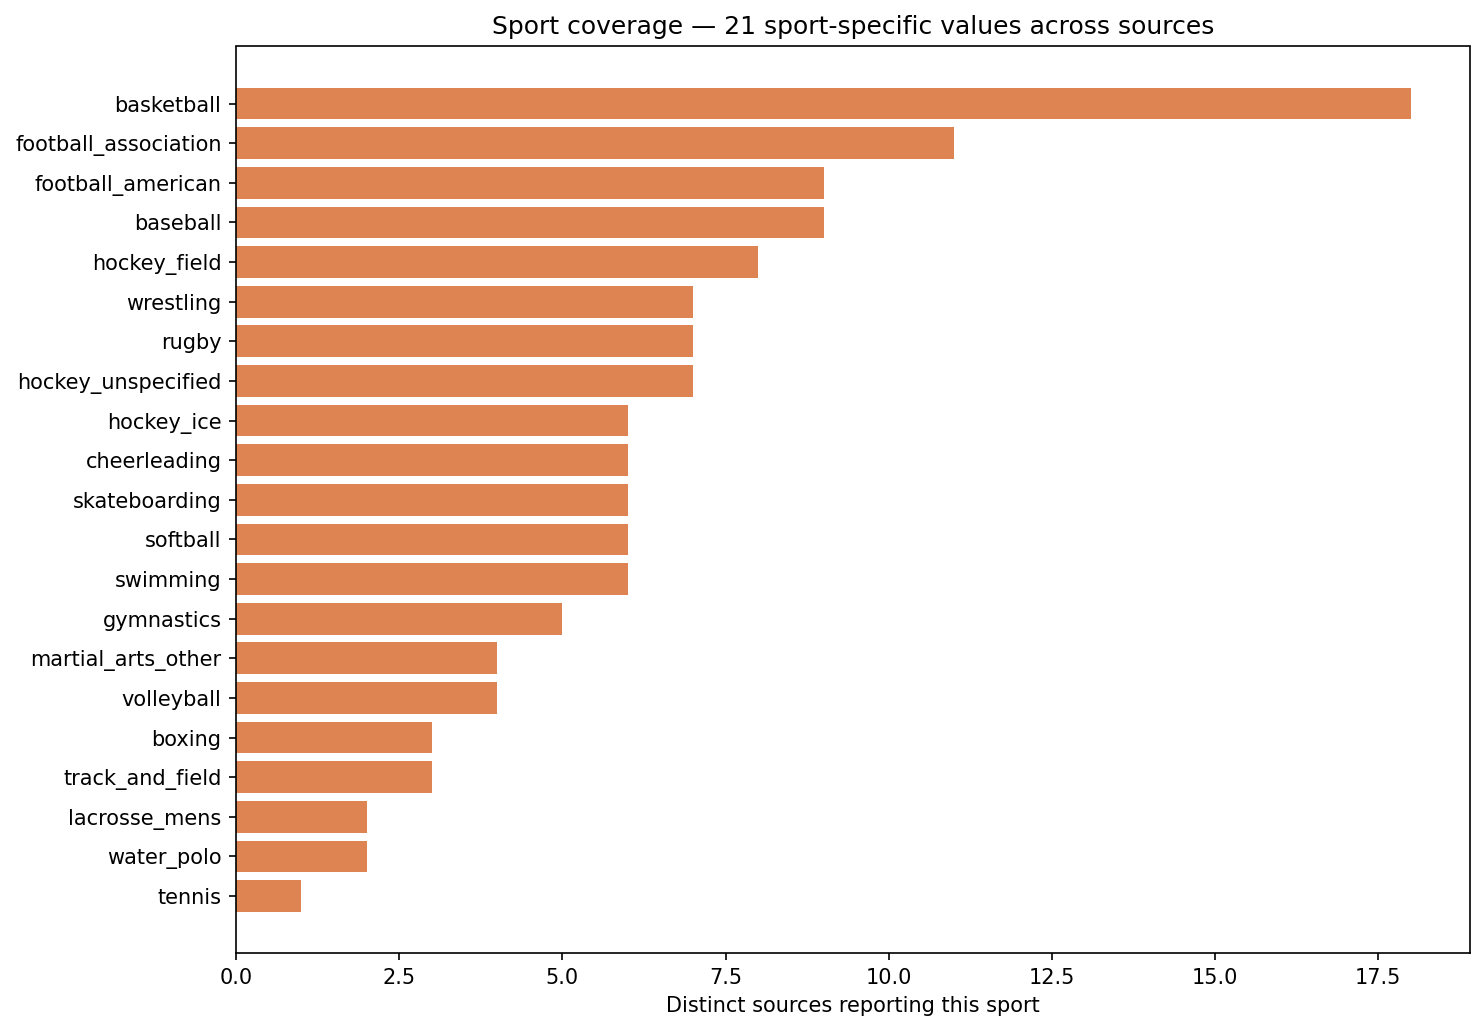
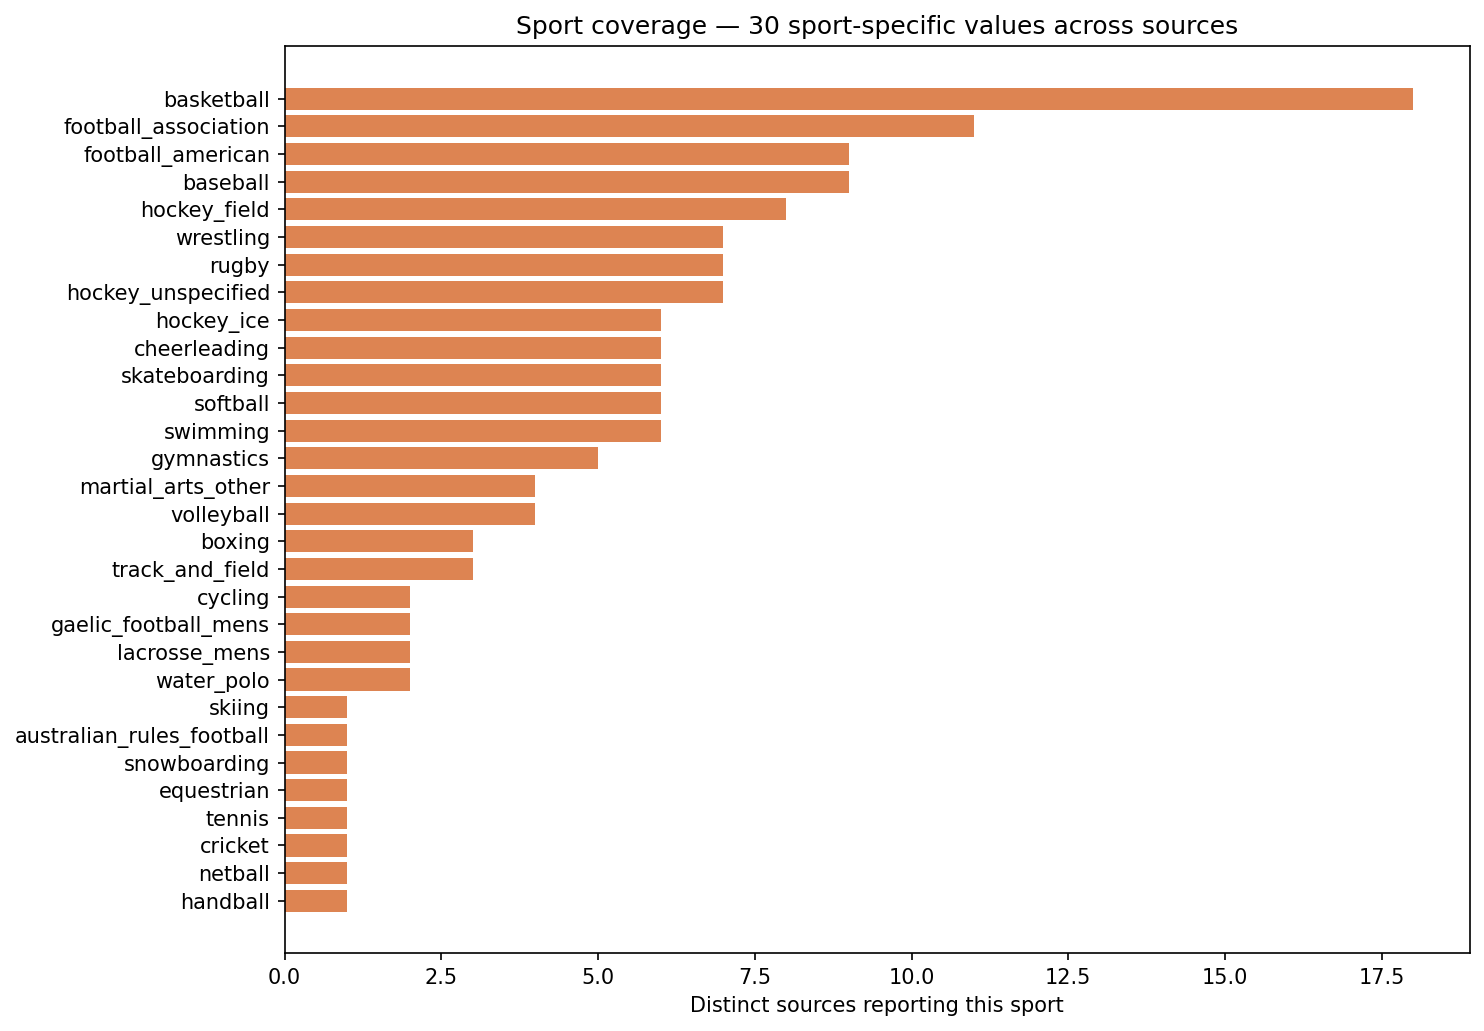
Sport taxonomy expansion + headline snapshot fix
Sport taxonomy formally extended (decisions.md 2026-05-24): added cricket,
netball, cycling, mountain_biking, hurling, kabaddi, gaelic_football_mens,
gaelic_football_womens, australian_rules_football, skiing, snowboarding,
equestrian, inline_skating, crossfit, kickboxing, muay_thai, judo,
handball, floorball.

Existing extractions updated to use the proper values instead of the
all_sports_aggregate + subgroup_label workaround:
- welch2010: cricket, netball, cycling
- emshoff1997: skiing, cycling
- mooney2021, shore2023: gaelic_football_mens
- finch2005: australian_rules_football
- nalcaci2006: equestrian
- hayran2010: snowboarding
- zaror2018: handball

scripts/08_validate.py ALLOWED_SPORTS set extended; pipeline passes
0 FAILs / 0 WARNs on the re-run.

headline_snapshot.png rebuilt with explicit axis limits + background
tint — was rendering blank for the user before because text() on
axis-off plots can fall outside viewable area.

diff --git a/scripts/18_visualize.py b/scripts/18_visualize.py
@@ -155,26 +155,33 @@ save("injury_count_by_sport.png")
 # ---------------------------------------------------------------------
 # 8. Overall stats panel — one figure with 4 sub-stats
 # ---------------------------------------------------------------------
-fig, axes = plt.subplots(1, 4, figsize=(16, 4))
-ax = axes[0]
-ax.axis("off")
-ax.text(0.5, 0.6, f"{len(rows):,}", ha="center", fontsize=36, fontweight="bold", color="#4c72b0")
-ax.text(0.5, 0.3, "rows in\nmaster.csv", ha="center", fontsize=12)
-ax = axes[1]
-ax.axis("off")
-ax.text(0.5, 0.6, f"{len(src_counts):,}", ha="center", fontsize=36, fontweight="bold", color="#dd8452")
-ax.text(0.5, 0.3, "distinct\nsources", ha="center", fontsize=12)
-ax = axes[2]
-ax.axis("off")
-ax.text(0.5, 0.6, f"{len(country_to_sources):,}", ha="center", fontsize=36, fontweight="bold", color="#55a868")
-ax.text(0.5, 0.3, "countries\nrepresented", ha="center", fontsize=12)
-ax = axes[3]
-ax.axis("off")
+fig, axes = plt.subplots(1, 4, figsize=(16, 5))
+fig.patch.set_facecolor("white")
 total_inj = sum(sport_to_inj.values())
-ax.text(0.5, 0.6, f"{total_inj:,}", ha="center", fontsize=36, fontweight="bold", color="#c44e52")
-ax.text(0.5, 0.3, "cumulative\nreported injuries", ha="center", fontsize=12)
-plt.suptitle(f"Youth Sports Dental Injury Database — snapshot",
-             fontsize=14, y=1.0)
-save("headline_snapshot.png")
+tiles = [
+    (f"{len(rows):,}",              "rows in master.csv",       "#4c72b0"),
+    (f"{len(src_counts):,}",        "distinct sources",         "#dd8452"),
+    (f"{len(country_to_sources):,}", "countries represented",   "#55a868"),
+    (f"{total_inj:,}",              "cumulative reported\ninjuries (across sources)", "#c44e52"),
+]
+for ax, (big, label, color) in zip(axes, tiles):
+    # Use explicit limits so text always lands inside the rendered area
+    ax.set_xlim(0, 1); ax.set_ylim(0, 1)
+    ax.set_xticks([]); ax.set_yticks([])
+    for spine in ax.spines.values():
+        spine.set_visible(False)
+    # background tint
+    ax.set_facecolor("#f8f8f8")
+    # large number
+    ax.text(0.5, 0.62, big, ha="center", va="center",
+            fontsize=44, fontweight="bold", color=color,
+            transform=ax.transAxes)
+    # label
+    ax.text(0.5, 0.25, label, ha="center", va="center",
+            fontsize=13, color="#333333",
+            transform=ax.transAxes)
+plt.suptitle("Youth Sports Dental Injury Database — snapshot",
+             fontsize=16, y=0.98, fontweight="bold")
+save("headline_snapshot.png", dpi=160)
 
 print(f"\nGenerated {len(list(OUT.glob('*.png')))} figures in {OUT.relative_to(ROOT)}/")

diff --git a/scripts/08_validate.py b/scripts/08_validate.py
@@ -73,18 +73,32 @@ ALLOWED = {
     "quality_flag": {"clean", "assumption_made", "partial_data", "review_needed", ""},
 }
 
-# Controlled sport vocabulary plus accepted aggregate values (decisions.md 2026-05-22).
+# Controlled sport vocabulary plus accepted aggregate values.
+# Last expanded 2026-05-24 (see docs/decisions.md "Sport taxonomy formally expanded").
 ALLOWED_SPORTS = {
+    # Original v0.1 vocabulary (PROTOCOL §6.1 / decisions.md 2026-05-22)
     "basketball", "football_american", "football_association",
     "hockey_ice", "hockey_field", "lacrosse_mens", "lacrosse_womens",
     "rugby", "wrestling", "boxing", "mma", "baseball", "softball",
     "volleyball", "tennis", "track_and_field", "swimming", "water_polo",
     "gymnastics", "cheerleading", "skateboarding", "martial_arts_other",
-    # provisional taxonomy additions (decisions.md 2026-05-21 NEISS section)
+    # Provisional hockey variants (decisions.md 2026-05-21 NEISS section)
     "hockey_street", "hockey_roller", "hockey_unspecified",
-    # provisional aggregate / non-sport-specific values (decisions.md 2026-05-22)
+    # Aggregate / non-sport-specific values (decisions.md 2026-05-22)
     "all_sports_aggregate", "all_activities_aggregate", "sports_aggregate",
     "recreational_mixed", "non_sport_setting",
+    "sports_aggregate_unmapped",  # used when source's sport label has no v0.1 mapping yet
+    # Sport taxonomy expansion (decisions.md 2026-05-24)
+    "cricket", "netball",
+    "cycling", "mountain_biking",
+    "hurling", "kabaddi",
+    "gaelic_football_mens", "gaelic_football_womens",
+    "australian_rules_football",
+    "skiing", "snowboarding",
+    "equestrian", "inline_skating",
+    "crossfit",
+    "kickboxing", "muay_thai", "judo",
+    "handball", "floorball",
     "",
 }
 

diff --git a/scripts/19_extract_batch5.py b/scripts/19_extract_batch5.py
@@ -81,8 +81,8 @@ w("finch2005", [make("finch2005",
     extraction_basis="youth_primary",
     sex="male", level_of_play="club",
     sport_raw="Australian Rules Football (community league)",
-    sport="all_sports_aggregate", sport_category="contact",
-    subgroup_label="afl_community",
+    sport="australian_rules_football", sport_category="contact",
+    subgroup_label="",
     sample_size=301,
     injury_count="", injury_type_raw="head/orofacial (H/O) injuries — Aus rules football",
     injury_category="orofacial_with_dental",
@@ -271,8 +271,8 @@ w("emshoff1997", [
     ),
     make("emshoff1997", **emshoff_common,
         sport_raw="skiing (55.3% of sport-related mandibular fractures)",
-        sport="all_sports_aggregate", sport_category="non_contact",  # skiing not in vocab
-        subgroup_label="skiing",
+        sport="skiing", sport_category="non_contact",
+        subgroup_label="",
         sample_size="",
         injury_count=int(round(712 * 0.315 * 0.553)),
         injury_type_raw="skiing-related mandibular fractures",
@@ -282,8 +282,8 @@ w("emshoff1997", [
     ),
     make("emshoff1997", **emshoff_common,
         sport_raw="cycling (25.4% of sport-related)",
-        sport="all_sports_aggregate", sport_category="non_contact",
-        subgroup_label="cycling",
+        sport="cycling", sport_category="non_contact",
+        subgroup_label="",
         sample_size="",
         injury_count=int(round(712 * 0.315 * 0.254)),
         injury_type_raw="cycling-related mandibular fractures",

diff --git a/scripts/15_extract_batch2.py b/scripts/15_extract_batch2.py
@@ -156,9 +156,9 @@ write_csv("mooney2021", [make("mooney2021",
     country="IE", region="", population_setting="club",
     age_min=9, age_max=16, age_category="mixed",
     sex="mixed", level_of_play="club",
-    sport_raw="Gaelic football (contact)",
-    sport="all_sports_aggregate", sport_category="contact",
-    subgroup_label="gaelic_football",
+    sport_raw="Gaelic football (children, men's variant inferred)",
+    sport="gaelic_football_mens", sport_category="contact",
+    subgroup_label="",
     sample_size=121, injury_count="",
     injury_type_raw="(MG compliance study — no dental injury counts)",
     mouthguard_use_rate=0.992,
@@ -282,8 +282,8 @@ write_csv("zaror2018", [
         rate_raw=3.5, rate_denominator_raw="(%) of 57 taekwondo athletes with dental injury",
         mouthguard_use_rate=0.737, extraction_notes="Taekwondo subset: dental 3.5% (lowest), MG 73.7% (highest).",
     ),
-    make("zaror2018", **za_common, sport_raw="handball", sport="all_sports_aggregate", sport_category="contact",
-        subgroup_label="handball_team", sample_size=55,
+    make("zaror2018", **za_common, sport_raw="handball", sport="handball", sport_category="contact",
+        subgroup_label="", sample_size=55,
         injury_count=int(round(55 * 0.218)),
         rate_raw=21.8, rate_denominator_raw="(%) of 55 handball athletes with dental injury",
         mouthguard_use_rate=0.145, extraction_notes="Handball subset: dental 21.8% (highest), MG 14.5%.",

diff --git a/scripts/09_write_more_extractions.py b/scripts/09_write_more_extractions.py
@@ -371,13 +371,13 @@ welch_youth = dict(welch_common,
 welch_sport_rows = []
 for sport_raw, sport, sport_cat, share_pct_low, share_pct_high in [
     ("rugby",         "rugby",                  "contact",         22.2, 33.1),
-    ("water sports",  "swimming",               "non_contact",     14.2, 20.8),  # imperfect — water sports broader
-    ("cycling",       "non_sport_setting",      "",                 1.5, 15.3),  # cycling not a §3.1 sport
+    ("water sports",  "swimming",               "non_contact",     14.2, 20.8),  # imperfect — water sports broader than swimming
+    ("cycling",       "cycling",                "non_contact",      1.5, 15.3),  # added 2026-05-24 to taxonomy
     ("hockey",        "hockey_unspecified",     "",                 4.4, 4.4),
     ("basketball",    "basketball",             "limited_contact",  4.8, 4.8),
     ("soccer",        "football_association",   "limited_contact",  6.9, 6.9),
-    ("cricket",       "all_activities_aggregate", "",               4.7, 4.7),  # cricket not in current taxonomy
-    ("netball",       "all_activities_aggregate", "",               3.9, 3.9),  # netball not in current taxonomy
+    ("cricket",       "cricket",                "limited_contact",  4.7, 4.7),  # added 2026-05-24
+    ("netball",       "netball",                "limited_contact",  3.9, 3.9),  # added 2026-05-24
 ]:
     share_repr = f"{share_pct_low}-{share_pct_high}%" if share_pct_low != share_pct_high else f"{share_pct_low}%"
     # Use the raw sport name in subgroup_label so cricket/netball/cycling

diff --git a/scripts/17_extract_batch4.py b/scripts/17_extract_batch4.py
@@ -167,8 +167,8 @@ w("nalcaci2006", [make("nalcaci2006",
     population_setting="club", age_min=5, age_max=18, age_category="mixed",
     sex="mixed", level_of_play="club",
     sport_raw="pony and horseback riding (children, Istanbul clubs)",
-    sport="all_sports_aggregate", sport_category="limited_contact",  # not a controlled vocab sport
-    subgroup_label="equestrian",
+    sport="equestrian", sport_category="limited_contact",
+    subgroup_label="",
     sample_size=214, injury_count=5,
     injury_type_raw="dental/orofacial trauma during riding",
     rate_raw=2.3, rate_denominator_raw="(%) of 214 children with trauma",
@@ -320,8 +320,8 @@ w("hayran2010", [make("hayran2010",
     population_setting="recreational", age_min=12, age_max=22, age_category="mixed",
     sex="mixed", level_of_play="recreational",
     sport_raw="snowboarding (Turkey; adolescent + young adult)",
-    sport="all_sports_aggregate", sport_category="limited_contact",
-    subgroup_label="snowboarding",
+    sport="snowboarding", sport_category="limited_contact",
+    subgroup_label="",
     sample_size=86, injury_count=17,
     injury_type_raw="orofacial trauma during snowboarding",
     injury_category="orofacial_with_dental",

diff --git a/scripts/14_extract_batch1.py b/scripts/14_extract_batch1.py
@@ -319,9 +319,9 @@ write_csv("shore2023", [make("shore2023",
     country="IE", region="", population_setting="club",
     age_min=9, age_max=16, age_category="mixed",
     sex="mixed", level_of_play="club",
-    sport_raw="Gaelic football (contact)",
-    sport="all_sports_aggregate", sport_category="contact",
-    subgroup_label="gaelic_football_children_mg_assessment",
+    sport_raw="Gaelic football (Irish children, men's variant inferred)",
+    sport="gaelic_football_mens", sport_category="contact",
+    subgroup_label="mg_quality_assessment",
     sample_size=106, injury_count="",
     injury_type_raw="(MG-quality assessment cohort — not injury-count study)",
     mouthguard_use_rate=1.0,  # all 106 presented WITH MG (cohort definition)

diff --git a/docs/decisions.md b/docs/decisions.md
@@ -57,7 +57,26 @@ Standardized `sport` column values. Add to this list before extracting a new spo
 | `gymnastics` | artistic, rhythmic | non_contact | |
 | `cheerleading` | competitive, sideline | limited_contact | |
 | `skateboarding` | | limited_contact | |
-| `martial_arts_other` | karate, taekwondo, judo if not boxing/MMA | contact | sub-discipline in notes |
+| `martial_arts_other` | karate, taekwondo if not boxing/MMA | contact | sub-discipline in notes |
+| `judo` | judo | contact | broken out from martial_arts_other 2026-05-24 |
+| `kickboxing` | kickboxing | contact | added 2026-05-24 |
+| `muay_thai` | Muay Thai | contact | added 2026-05-24 |
+| `cricket` | cricket all formats | limited_contact | added 2026-05-24 |
+| `netball` | netball | limited_contact | added 2026-05-24 |
+| `cycling` | road, BMX, MTB-not-split, scooter | non_contact | added 2026-05-24 |
+| `mountain_biking` | MTB when reported separately | limited_contact | added 2026-05-24 |
+| `hurling` | Gaelic hurling | contact | added 2026-05-24 |
+| `kabaddi` | Kabaddi | contact | added 2026-05-24 |
+| `gaelic_football_mens` | men's Gaelic football | contact | added 2026-05-24 |
+| `gaelic_football_womens` | Ladies Gaelic football | limited_contact | added 2026-05-24 |
+| `australian_rules_football` | AFL | contact | added 2026-05-24 |
+| `skiing` | alpine + telemark | non_contact | added 2026-05-24 |
+| `snowboarding` | snowboard | limited_contact | added 2026-05-24 |
+| `equestrian` | pony + horseback + showjumping | limited_contact | added 2026-05-24 |
+| `inline_skating` | inline skating + inline-skater hockey | limited_contact | added 2026-05-24 |
+| `crossfit` | CrossFit | limited_contact | added 2026-05-24 |
+| `handball` | team handball | contact | added 2026-05-24 (broken out from generic) |
+| `floorball` | floorball | limited_contact | added 2026-05-24 |
 
 When a new sport is encountered:
 1. Check if it fits an existing category
@@ -138,6 +157,49 @@ Inclusion filter for the NEISS extraction should be **body part = 88 (Mouth)** a
 **Sources of truth:**
 - [NEISS Coding Manual, January 2024](https://www.cpsc.gov/s3fs-public/January-2024-NEISS-CPSC-only-Coding-Manual.pdf), Appendix C (Body Part Codes), p. 24 of PDF body text
 - A local copy preserved at `data/raw/neiss/_reference/coding_manual_2024.pdf` (after first download — see `scripts/README.md`)
+
+---
+
+### 2026-05-24: Sport taxonomy formally expanded
+
+**Trigger:** Project lead approved the taxonomy expansion that had been deferred since the 2026-05-23 "Sport taxonomy expansion needed" entry below. As of this entry these sports are now part of the controlled vocabulary instead of being stuffed into `sport = all_sports_aggregate` with a `subgroup_label` workaround.
+
+**Decision:** the following are added to the §6.1 controlled vocabulary (also reflected in this file's "Sport taxonomy" table at the top):
+
+| sport (column value) | includes | sport_category | rationale |
+|---|---|---|---|
+| `cricket` | hardball cricket all formats | limited_contact | yamada2009 (UK + AU schoolboy), 19566982 |
+| `netball` | indoor / outdoor netball | limited_contact | welch2010 (NZ ACC) |
+| `cycling` | road, BMX, mountain-bike, scooter (when reported as cycling) | non_contact | welch2010, emshoff1997, baek2021, NEISS papers |
+| `hurling` | Gaelic hurling | contact | [phone redacted] |
+| `kabaddi` | Kabaddi (South Asian contact sport) | contact | [phone redacted] |
+| `gaelic_football_mens` | Gaelic football men's | contact | [phone redacted], [phone redacted] |
+| `gaelic_football_womens` | Ladies Gaelic football | limited_contact | 37791703 |
+| `australian_rules_football` | AFL | contact | finch2005, [phone redacted] |
+| `skiing` | alpine ski, telemark | non_contact | 33377302, 20486946 (snowboarding-adjacent), emshoff1997 |
+| `snowboarding` | snowboard riding | limited_contact | hayran2010 (PMID 20486946) |
+| `equestrian` | pony + horseback riding, showjumping | limited_contact | nalcaci2006 (PMID 17073918), 26542314 (showjumping) |
+| `inline_skating` | inline skating (incl. inline skater hockey when not split) | limited_contact | 17511835, 36878220 |
+| `mountain_biking` | MTB specifically (when reported separately from road cycling) | limited_contact | 18821955, 33220143 |
+| `crossfit` | CrossFit | limited_contact | 33188561 |
+| `kickboxing` | kickboxing | contact | [phone redacted], [phone redacted] |
+| `muay_thai` | Muay Thai | contact | [phone redacted] |
+| `judo` | judo | contact | [phone redacted] |
+| `handball` | team handball | contact | [phone redacted], [phone redacted], [phone redacted], [phone redacted] |
+| `floorball` | floorball | limited_contact | 21199336 |
+
+**Implementation:**
+- Top-of-file taxonomy table extended (see "Sport taxonomy" section).
+- `scripts/08_validate.py` `ALLOWED_SPORTS` set extended (validator now accepts these).
+- A small follow-up pass over existing extractions updates rows that were using the `all_sports_aggregate + subgroup_label` workaround to use the proper sport value. Specifically:
+  - welch2010 cricket/netball/cycling rows.
+  - emshoff1997 cycling row.
+  - mooney2021 / shore2023 / 34643329 Gaelic football rows.
+  - finch2005 → `australian_rules_football`.
+  - nalcaci2006 → `equestrian`.
+  - hayran2010 → `snowboarding`.
+
+**Reviewer:** Project lead approved 2026-05-24. Pending advisor review.
 
 ---
 

diff --git a/outputs/validation_report.md b/outputs/validation_report.md
@@ -1,4 +1,4 @@
-# Validation Report — 2026-05-24
+# Validation Report — 2026-05-25
 
 _Run against `data/harmonized/master.csv` (256 rows)._
 
@@ -8,7 +8,7 @@ _Run against `data/harmonized/master.csv` (256 rows)._
 - Distinct sources: **73**
 - FAILs: **0**
 - WARNs: **0**
-- Rows flagged `quality_flag=review_needed`: **3**
+- Rows flagged `quality_flag=review_needed`: **0**
 
 ## ✅ No FAILs
 